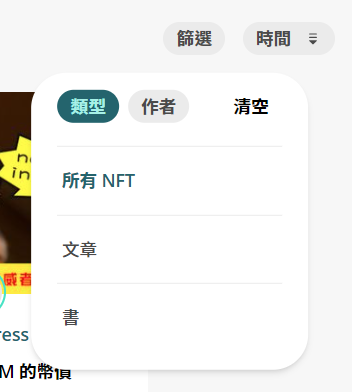
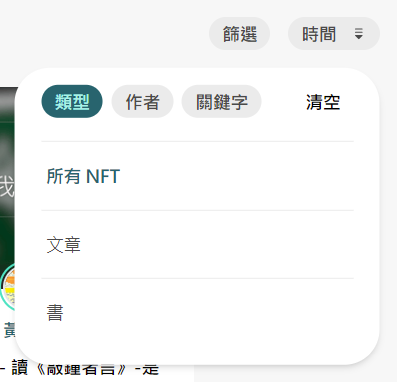
GITBOOK-4584: 書架

diff --git a/general-guides/writing-nft/README.md b/general-guides/writing-nft/README.md
@@ -17,7 +17,7 @@ description: Writing NFT 是代表文字作品擁有權的 NFT
 你可以幾種方式收藏 NFT 電子書及文章 NFT：
 
 * 到 Liker Land NFT 書店查看，那裡有 [NFT 電子書](https://liker.land/zh-Hant/store)及[文章 NFT](https://liker.land/zh-Hant/store/articles)。
-* 參觀作者或收藏家的 [NFT 展示櫃](collect-writing-nft/nft-portfolio.md)頁面，並在那裡購買 NFT。
+* 參觀作者或收藏家的 [NFT 展示櫃](collect-writing-nft/bookshelf.md)頁面，並在那裡購買 NFT。
 * 尋找嵌入您感興趣內容的 [NFT 小部件](collect-writing-nft/nft-widget.md)。
 
 ### 沒有 Liker ID ，能購買 Writing NFT 嗎？
@@ -50,7 +50,7 @@ description: Writing NFT 是代表文字作品擁有權的 NFT
 
 ### 如何發售文字 NFT？
 
-可經任何支援 Writing NFT 的寫作網站出版，例如 [WordPress 網站](../../user-guide/wordpress.md)、[Liker.Social](https://liker.social/) 或 [illustBuy](https://illustbuy.com/) 等。作品發佈後便自動上架，在 [NFT 小部件](collect-writing-nft/nft-widget.md) 及 [NFT 展示櫃](collect-writing-nft/nft-portfolio.md)發售，作者不用手動做額外動作上架市場。
+可經任何支援 Writing NFT 的寫作網站出版，例如 [WordPress 網站](../../user-guide/wordpress.md)、[Liker.Social](https://liker.social/) 或 [illustBuy](https://illustbuy.com/) 等。作品發佈後便自動上架，在 [NFT 小部件](collect-writing-nft/nft-widget.md) 及 [NFT 展示櫃](collect-writing-nft/bookshelf.md)發售，作者不用手動做額外動作上架市場。
 
 ### 能設定文字作品的 NFT 發行量上限嗎？
 
@@ -66,7 +66,7 @@ description: Writing NFT 是代表文字作品擁有權的 NFT
 
 ### 作品沒有安裝 NFT 小部件，也能發售 NFT 嗎？
 
-可在 [NFT Portal](nft-portal/) 發行 NFT，然後在自己的 [NFT 展示櫃](collect-writing-nft/nft-portfolio.md)或[二級市場](collect-writing-nft/nft-marketplace.md)發售。
+可在 [NFT Portal](nft-portal/) 發行 NFT，然後在自己的 [NFT 展示櫃](collect-writing-nft/bookshelf.md)或[二級市場](collect-writing-nft/nft-marketplace.md)發售。
 
 ### 了解更多 Writing NFT 最新消息
 

diff --git a/general-guides/writing-nft/collect-writing-nft/bookshelf.md b/general-guides/writing-nft/collect-writing-nft/bookshelf.md
@@ -2,11 +2,11 @@
 description: 展示 NFT 藏品
 ---
 
-# NFT 展示櫃
+# 書架
 
-收藏者除了可於 [NFT 小部件](nft-widget.md)收集當前文章的 NFT 外，也可以到創作者的 **NFT 展示櫃** 頁面（網址為 https://liker.land/\[錢包地址]）直接購買正在發售中的 NFT。收藏者與創作者和也可以經任何渠道以 NFT 展示櫃頁面分享他的 NFT 藏品連結。
+收藏者除了可於 [NFT 小部件](nft-widget.md)收集當前文章的 NFT 外，也可以到創作者的 **公開書架** 頁面（網址為 https://liker.land/\[錢包地址]）直接購買正在發售中的 NFT。收藏者與創作者和也可以經任何渠道以 NFT 展示櫃頁面分享他的 NFT 藏品連結。
 
-NFT 展示櫃包含以下功能：
+公開書架包含以下功能：
 
 ## 收藏
 
@@ -45,6 +45,10 @@ NFT 展示櫃包含以下功能：
 * 依作者篩選
 
 <figure><img src="../../../.gitbook/assets/NFT Portfolio 6.png" alt=""><figcaption><p>作者</p></figcaption></figure>
+
+* 依關鍵字篩選
+
+<figure><img src="../../../.gitbook/assets/NFT Portfolio 8.png" alt=""><figcaption></figcaption></figure>
 
 * 按類型
 * 按價格

diff --git a/general-guides/writing-nft/collect-writing-nft/collect-all.md b/general-guides/writing-nft/collect-writing-nft/collect-all.md
@@ -14,7 +14,7 @@ description: 手機與桌機均適用
 
 ## 步驟一：登入錢包並開始一鍵收藏
 
-請先登入你的  [Keplr](../../wallet/keplr/)、[Cosmostation](../../wallet/cosmostation/)、[Leap](../../wallet/leap/how-to-install-leap-extension.md)、[Keplr Mobile](../../wallet/keplr-mobile/)、[Cosmostation app](../../wallet/cosmostation-mobile/) 或 [Liker Land 手機應用程式](../../../user-guide/liker-land/download.md)，然後在創作者的 [NFT 展示櫃](nft-portfolio.md)點「一鍵收藏」。
+請先登入你的  [Keplr](../../wallet/keplr/)、[Cosmostation](../../wallet/cosmostation/)、[Leap](../../wallet/leap/how-to-install-leap-extension.md)、[Keplr Mobile](../../wallet/keplr-mobile/)、[Cosmostation app](../../wallet/cosmostation-mobile/) 或 [Liker Land 手機應用程式](../../../user-guide/liker-land/download.md)，然後在創作者的 [NFT 展示櫃](bookshelf.md)點「一鍵收藏」。
 
 <figure><img src="../../../.gitbook/assets/Collect All 1.png" alt=""><figcaption><p>點「一鍵收藏」</p></figcaption></figure>
 

diff --git a/SUMMARY.md b/SUMMARY.md
@@ -22,7 +22,7 @@
     * [一鍵收藏 Writing NFT](general-guides/writing-nft/collect-writing-nft/collect-all.md)
     * [關注創作者](general-guides/writing-nft/collect-writing-nft/follow-creators.md)
     * [NFT 小部件](general-guides/writing-nft/collect-writing-nft/nft-widget.md)
-    * [NFT 展示櫃](general-guides/writing-nft/collect-writing-nft/nft-portfolio.md)
+    * [書架](general-guides/writing-nft/collect-writing-nft/bookshelf.md)
     * [個人主頁](general-guides/writing-nft/collect-writing-nft/dashboard.md)
     * [通知功能](general-guides/writing-nft/collect-writing-nft/notifications.md)
     * [NFT 詳細資訊](general-guides/writing-nft/collect-writing-nft/nft-details.md)

diff --git a/general-guides/writing-nft/collect-writing-nft/README.md b/general-guides/writing-nft/collect-writing-nft/README.md
@@ -44,7 +44,7 @@ description: 如何收藏 Writing NFT
 
 <figure><img src="../../../.gitbook/assets/Buy NFT 2.png" alt=""><figcaption><p>NFT 系列資訊頁面</p></figcaption></figure>
 
-又或者到作者的 [NFT 展示櫃](nft-portfolio.md)（網址為 https://liker.land/\[錢包地址] ）點 NFT 當前價格或「[一鍵收藏](./#yi-jian-shou-cang-writing-nft)」；
+又或者到作者的 [NFT 展示櫃](bookshelf.md)（網址為 https://liker.land/\[錢包地址] ）點 NFT 當前價格或「[一鍵收藏](./#yi-jian-shou-cang-writing-nft)」；
 
 <figure><img src="../../../.gitbook/assets/Buy NFT 3.png" alt=""><figcaption><p>NFT 展示櫃</p></figcaption></figure>
 

diff --git a/user-guide/liker-id/edit-avatar-displayname.md b/user-guide/liker-id/edit-avatar-displayname.md
@@ -32,8 +32,8 @@ description: 讓自己的性格更特出
 
 ### NFT 展示櫃
 
-{% content-ref url="../../general-guides/writing-nft/collect-writing-nft/nft-portfolio.md" %}
-[nft-portfolio.md](../../general-guides/writing-nft/collect-writing-nft/nft-portfolio.md)
+{% content-ref url="../../general-guides/writing-nft/collect-writing-nft/bookshelf.md" %}
+[bookshelf.md](../../general-guides/writing-nft/collect-writing-nft/bookshelf.md)
 {% endcontent-ref %}
 
 <figure><img src="../../.gitbook/assets/NFT Portfolio Liker ID.png" alt=""><figcaption><p>NFT 展示櫃</p></figcaption></figure>

diff --git a/general-guides/writing-nft/collect-writing-nft/dashboard.md b/general-guides/writing-nft/collect-writing-nft/dashboard.md
@@ -46,9 +46,9 @@ description: 展示 NFT 藏品庫
 
 <figure><img src="../../../.gitbook/assets/Dashboard 4.png" alt=""><figcaption><p>點「匯出正在關注我的名單」匯出關注者清單</p></figcaption></figure>
 
-### 展示櫃
+### 書架
 
-點展示櫃直接連結至個人公開的[書架](nft-portfolio.md)。
+點展示櫃直接連結至個人的[書架](bookshelf.md)。
 
 <figure><img src="../../../.gitbook/assets/Bookshelf.png" alt=""><figcaption><p>書架</p></figcaption></figure>
 

diff --git a/general-guides/writing-nft/collect-writing-nft/follow-creators.md b/general-guides/writing-nft/collect-writing-nft/follow-creators.md
@@ -26,7 +26,7 @@ description: 輕易掌握 NFT 發放資訊
 
 ## 步驟二：關注創作者
 
-在創作者的 [NFT 展示櫃](nft-portfolio.md)左手邊作者介紹欄位下點「關注」。
+在創作者的 [NFT 展示櫃](bookshelf.md)左手邊作者介紹欄位下點「關注」。
 
 <figure><img src="../../../.gitbook/assets/Follow 1.png" alt=""><figcaption><p>點「關注」</p></figcaption></figure>
 
